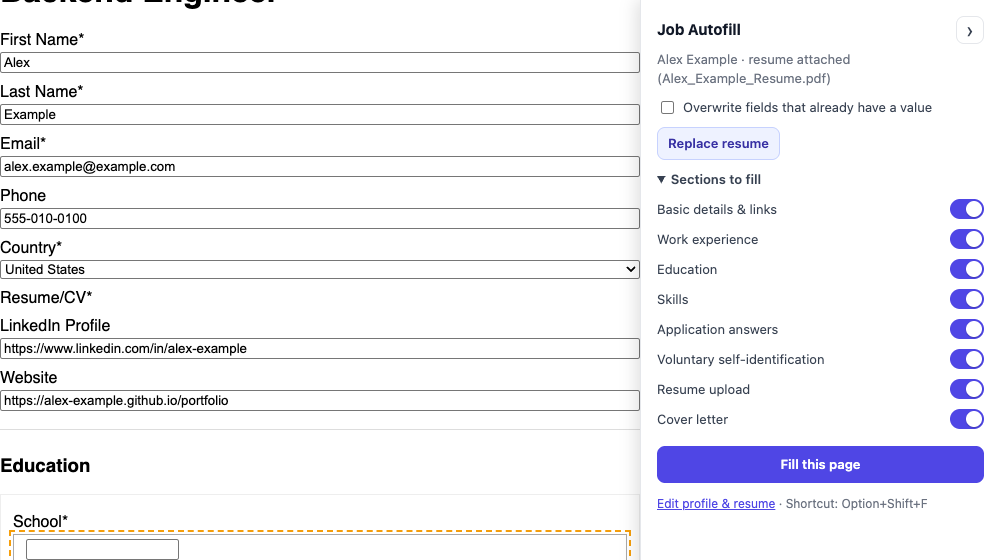
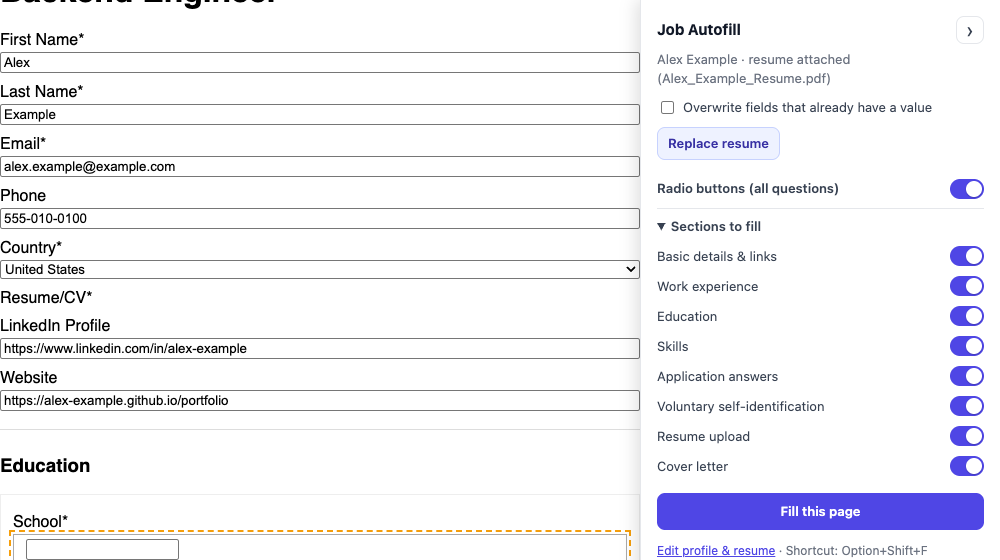
Add universal radio-button switch to popup and side panel

Changed region(s): [[0.651, 0.3036, 0.992, 1.0]]

diff --git a/tests/e2e.js b/tests/e2e.js
@@ -130,6 +130,21 @@ async function main() {
     await sw.evaluate(() => chrome.storage.local.remove('sections'));
     await p.close();
 
+    // Universal radio-button switch: off = every radio untouched, everything else still filled.
+    {
+      const r = await open('lever-like.html');
+      await sw.evaluate(() => chrome.storage.local.set({ sections: { radios: false } }));
+      await fill(r);
+      check('radios off: no radio is checked', await r.$$eval('input[type=radio]:checked', (n) => n.length), 0);
+      check('radios off: other fields still filled', await r.$eval('#email', (e) => e.value), 'alex.example@example.com');
+      await sw.evaluate(() => chrome.storage.local.remove('sections'));
+      await r.close();
+      const r2 = await open('lever-like.html');
+      await fill(r2);
+      check('radios on (default): work auth radio filled', await r2.$$eval('input[type=radio]:checked', (n) => n.length), (n) => n > 0);
+      await r2.close();
+    }
+
     const g = await open('greenhouse-like.html');
     await sw.evaluate(() => chrome.storage.local.set({ sections: { experience: false, education: false } }));
     await fill(g);
@@ -151,6 +166,13 @@ async function main() {
     await pop.locator('#sections input[data-section="experience"]').evaluate((e) => e.click());
     await pop.waitForTimeout(200);
     check('switching off is stored', (await sw.evaluate(() => chrome.storage.local.get('sections'))).sections, { experience: false });
+    await sw.evaluate(() => chrome.storage.local.remove('sections'));
+    await pop.reload();
+    await pop.waitForSelector('#radioSwitch input', { state: 'attached' });
+    check('universal radio switch is on by default', await pop.$eval('#radioSwitch input', (i) => i.checked), true);
+    await pop.locator('#radioSwitch input').evaluate((e) => e.click());
+    await pop.waitForTimeout(200);
+    check('radio switch off is stored', (await sw.evaluate(() => chrome.storage.local.get('sections'))).sections, { radios: false });
     await sw.evaluate(() => chrome.storage.local.remove('sections'));
     await pop.close();
   }

diff --git a/popup.js b/popup.js
@@ -25,8 +25,9 @@
     const state = sections || {};
     const box = $('sections');
     box.textContent = '';
-    SECTIONS.forEach(([id, label]) => {
+    const addSwitch = (target, id, label, title) => {
       const row = el('label', null, 'sw');
+      if (title) row.title = title;
       const input = el('input');
       input.type = 'checkbox';
       input.dataset.section = id;
@@ -39,8 +40,13 @@
       row.appendChild(el('span', label));
       row.appendChild(input);
       row.appendChild(el('i', null, 'slider'));
-      box.appendChild(row);
-    });
+      target.appendChild(row);
+    };
+    // Universal switch: when off, no radio button on the page is touched (they are still flagged if required).
+    const master = $('radioSwitch');
+    master.textContent = '';
+    addSwitch(master, 'radios', 'Radio buttons (all questions)', 'Turn off to leave every radio button untouched');
+    SECTIONS.forEach(([id, label]) => addSwitch(box, id, label));
   }
 
   if (window.top !== window) {

diff --git a/popup.html b/popup.html
@@ -10,6 +10,7 @@
   <div id="profile" class="muted">Loading…</div>
   <label class="check"><input type="checkbox" id="overwrite"> Overwrite fields that already have a value</label>
   <div class="upload"><button id="upload" type="button" class="secondary">Upload resume</button><input type="file" id="resumeFile" accept=".pdf,.doc,.docx,application/pdf" hidden><span id="uploadMsg" class="muted"></span></div>
+  <div id="radioSwitch" class="master"></div>
   <details class="sections" open>
     <summary>Sections to fill</summary>
     <div id="sections"></div>

diff --git a/popup.css b/popup.css
@@ -26,6 +26,7 @@ a { color: #4f46e5; }
 .min:hover { background: #f3f4f6; }
 html.embedded body { width: auto; min-height: 100vh; box-sizing: border-box; padding-top: 16px; }
 
+.master { margin: 0 0 8px; padding: 4px 0; border-bottom: 1px solid #e5e7eb; font-weight: 600; }
 .sections { margin: 0 0 12px; }
 .sections summary { font-weight: 600; margin-bottom: 6px; }
 .sw { display: flex; align-items: center; justify-content: space-between; padding: 5px 0; cursor: pointer; position: relative; color: #374151; }

diff --git a/src/filler.js b/src/filler.js
@@ -555,6 +555,7 @@
         if (skip(c)) continue;
 
         if (c.kind === 'radio') {
+          if (!sectionOn('radios')) continue; // universal "radio buttons" switch is off
           const gk = c.el.name || 'radio-' + groups.size;
           if (!groups.has(gk)) groups.set(gk, []);
           groups.get(gk).push(c);
